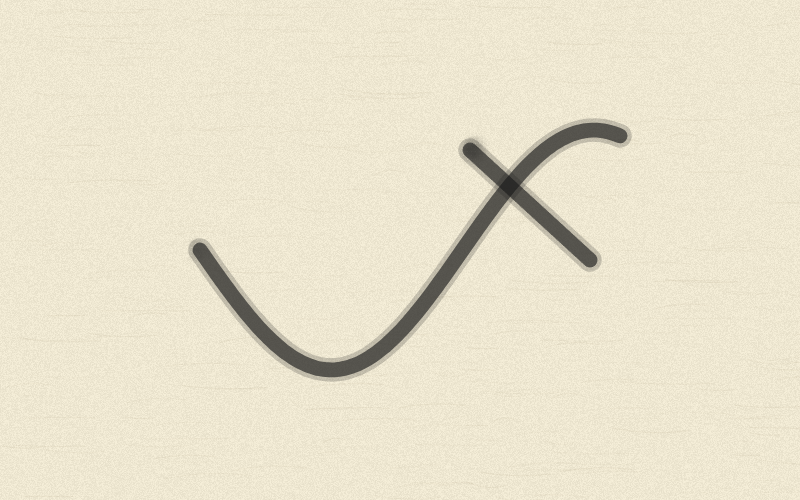
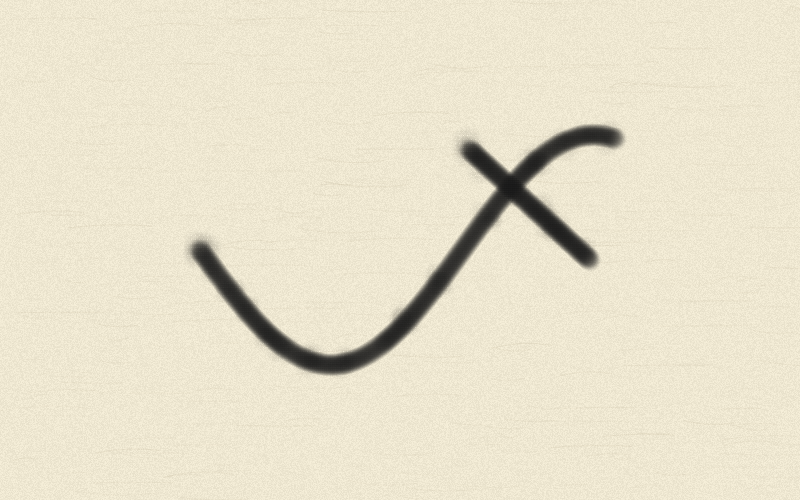
fix: 水墨改密集柔邊墨點—結合原始暈染質感與連貫筆畫
- 沿路徑密集蓋柔邊墨點（中央實心平台+向外羽化），整條每幀重畫保持連貫
- 移除黑芯+寬灰邊雙描造成的「灰軌」；暈染改 source-over 與筆跡同層融合、沿線更明顯
- 不再有念珠顆粒與中央白線；墨色濃、邊緣自然化開

Changed region(s): [[0.2188, 0.24, 0.8125, 0.78]]

diff --git a/effects/ink-brush/effect.js b/effects/ink-brush/effect.js
@@ -165,13 +165,29 @@
       x,
       y,
       r: state.size * (0.34 + Math.random() * 0.18),
-      alpha: state.density * strength * 0.07,
+      alpha: state.density * strength * 0.12,
       lobes
     });
   }
 
-  // 把整條 pointer.points 當成一條平滑路徑描出來。每次都先清空再重畫，
-  // 所以同一筆畫內不會因相鄰段重疊而變暗（不會出現念珠顆粒）。
+  // 沿路徑蓋一顆柔邊墨點：中心濃、邊緣平滑淡出（這是原始版的水墨柔邊質感來源）
+  function stampSoft(ctx, x, y, radius, alpha) {
+    const color = hexToRgb(state.ink);
+    const a = clamp(alpha, 0, 1);
+    const gradient = ctx.createRadialGradient(x, y, 0, x, y, radius);
+    // 中央保留一段實心平台讓墨色夠濃，再向外平滑羽化成柔邊（避免太淡或硬邊灰軌）
+    gradient.addColorStop(0, `rgba(${color.r}, ${color.g}, ${color.b}, ${a})`);
+    gradient.addColorStop(0.5, `rgba(${color.r}, ${color.g}, ${color.b}, ${a})`);
+    gradient.addColorStop(0.78, `rgba(${color.r}, ${color.g}, ${color.b}, ${clamp(a * 0.42, 0, 1)})`);
+    gradient.addColorStop(1, `rgba(${color.r}, ${color.g}, ${color.b}, 0)`);
+    ctx.fillStyle = gradient;
+    ctx.beginPath();
+    ctx.arc(x, y, radius, 0, Math.PI * 2);
+    ctx.fill();
+  }
+
+  // 把整條 pointer.points 沿路徑蓋密集柔邊墨點：每幀整條重畫，
+  // 重疊的柔邊互相累積成連貫且中央濃、邊緣自然暈散的筆跡（不會有黑芯+兩條灰軌、也無顆粒）。
   function drawActiveStroke() {
     clearStrokeLayer();
     const pts = pointer.points;
@@ -179,54 +195,29 @@
       return;
     }
 
-    const color = hexToRgb(state.ink);
-    const coreAlpha = clamp(0.32 + state.density * 0.55, 0, 1);
-    const haloAlpha = coreAlpha * 0.32;
-    const coreWidth = Math.max(1.6, state.size * 0.62);
-    const haloWidth = Math.max(2.6, state.size * 0.98);
+    const radius = state.size * 0.5;
+    // 沿線密集重疊累積出濃度；密度參數提高整體濃淡
+    const dabAlpha = clamp(0.12 + state.density * 0.2, 0, 1);
 
     if (pts.length === 1) {
-      // 單點輕觸：柔邊圓點
-      const p = pts[0];
-      const r = state.size * 0.52;
-      const gradient = strokeContext.createRadialGradient(p.x, p.y, 0, p.x, p.y, r);
-      gradient.addColorStop(0, `rgba(${color.r}, ${color.g}, ${color.b}, ${coreAlpha})`);
-      gradient.addColorStop(0.68, `rgba(${color.r}, ${color.g}, ${color.b}, ${coreAlpha * 0.5})`);
-      gradient.addColorStop(1, `rgba(${color.r}, ${color.g}, ${color.b}, 0)`);
-      strokeContext.fillStyle = gradient;
-      strokeContext.beginPath();
-      strokeContext.arc(p.x, p.y, r, 0, Math.PI * 2);
-      strokeContext.fill();
+      stampSoft(strokeContext, pts[0].x, pts[0].y, radius, clamp(dabAlpha * 1.8, 0, 1));
       return;
     }
 
-    function tracePath() {
-      strokeContext.beginPath();
-      strokeContext.moveTo(pts[0].x, pts[0].y);
-      // 以相鄰點的中點作為曲線端點、原始點作為控制點，串成連續平滑曲線
-      for (let i = 1; i < pts.length - 1; i += 1) {
-        const midX = (pts[i].x + pts[i + 1].x) * 0.5;
-        const midY = (pts[i].y + pts[i + 1].y) * 0.5;
-        strokeContext.quadraticCurveTo(pts[i].x, pts[i].y, midX, midY);
+    let prev = pts[0];
+    stampSoft(strokeContext, prev.x, prev.y, radius, dabAlpha);
+    for (let i = 1; i < pts.length; i += 1) {
+      const point = pts[i];
+      // 相鄰取樣點之間再補插，使墨點間距夠密（約半徑的 1/4），疊出來才平滑連續
+      const dx = point.x - prev.x;
+      const dy = point.y - prev.y;
+      const distance = Math.hypot(dx, dy);
+      const sub = Math.max(1, Math.ceil(distance / Math.max(1, radius * 0.25)));
+      for (let s = 1; s <= sub; s += 1) {
+        stampSoft(strokeContext, prev.x + dx * s / sub, prev.y + dy * s / sub, radius, dabAlpha);
       }
-      const last = pts[pts.length - 1];
-      strokeContext.lineTo(last.x, last.y);
+      prev = point;
     }
-
-    strokeContext.lineCap = "round";
-    strokeContext.lineJoin = "round";
-
-    // 外圈柔邊（整條描一次）
-    strokeContext.strokeStyle = `rgba(${color.r}, ${color.g}, ${color.b}, ${haloAlpha})`;
-    strokeContext.lineWidth = haloWidth;
-    tracePath();
-    strokeContext.stroke();
-
-    // 內芯主體（整條描一次）→ 中央較濃、邊緣柔，且全程連續無顆粒
-    strokeContext.strokeStyle = `rgba(${color.r}, ${color.g}, ${color.b}, ${coreAlpha})`;
-    strokeContext.lineWidth = coreWidth;
-    tracePath();
-    strokeContext.stroke();
   }
 
   // 收筆：把完成的筆畫整條疊進墨層（與即時顯示同為 source-over，外觀不跳動）
@@ -283,7 +274,8 @@
     }
 
     inkContext.save();
-    inkContext.globalCompositeOperation = "multiply";
+    // 暈染與筆跡同樣用 source-over 疊在墨層，兩者才會自然融在一起、不會有明顯分隔
+    inkContext.globalCompositeOperation = "source-over";
     for (let index = bleeds.length - 1; index >= 0; index -= 1) {
       const bleed = bleeds[index];
       bleed.r += 0.22 + state.bleed * 1.7;
@@ -346,9 +338,9 @@
       });
     }
     const speed = distance / Math.max(1, now - pointer.time);
-    // 慢筆才偶爾在落點加暈染，快筆保持乾淨線條
-    if (speed < 0.22 && Math.random() < 0.22 + state.bleed * 0.3) {
-      addBleed(point.x, point.y, 0.5);
+    // 沿整條筆畫都產生暈染（慢筆滲得更開），讓墨跡邊緣有水墨化開的感覺
+    if (Math.random() < 0.12 + state.bleed * 0.3) {
+      addBleed(point.x, point.y, speed < 0.22 ? 0.85 : 0.5);
     }
     pointer.x = point.x;
     pointer.y = point.y;